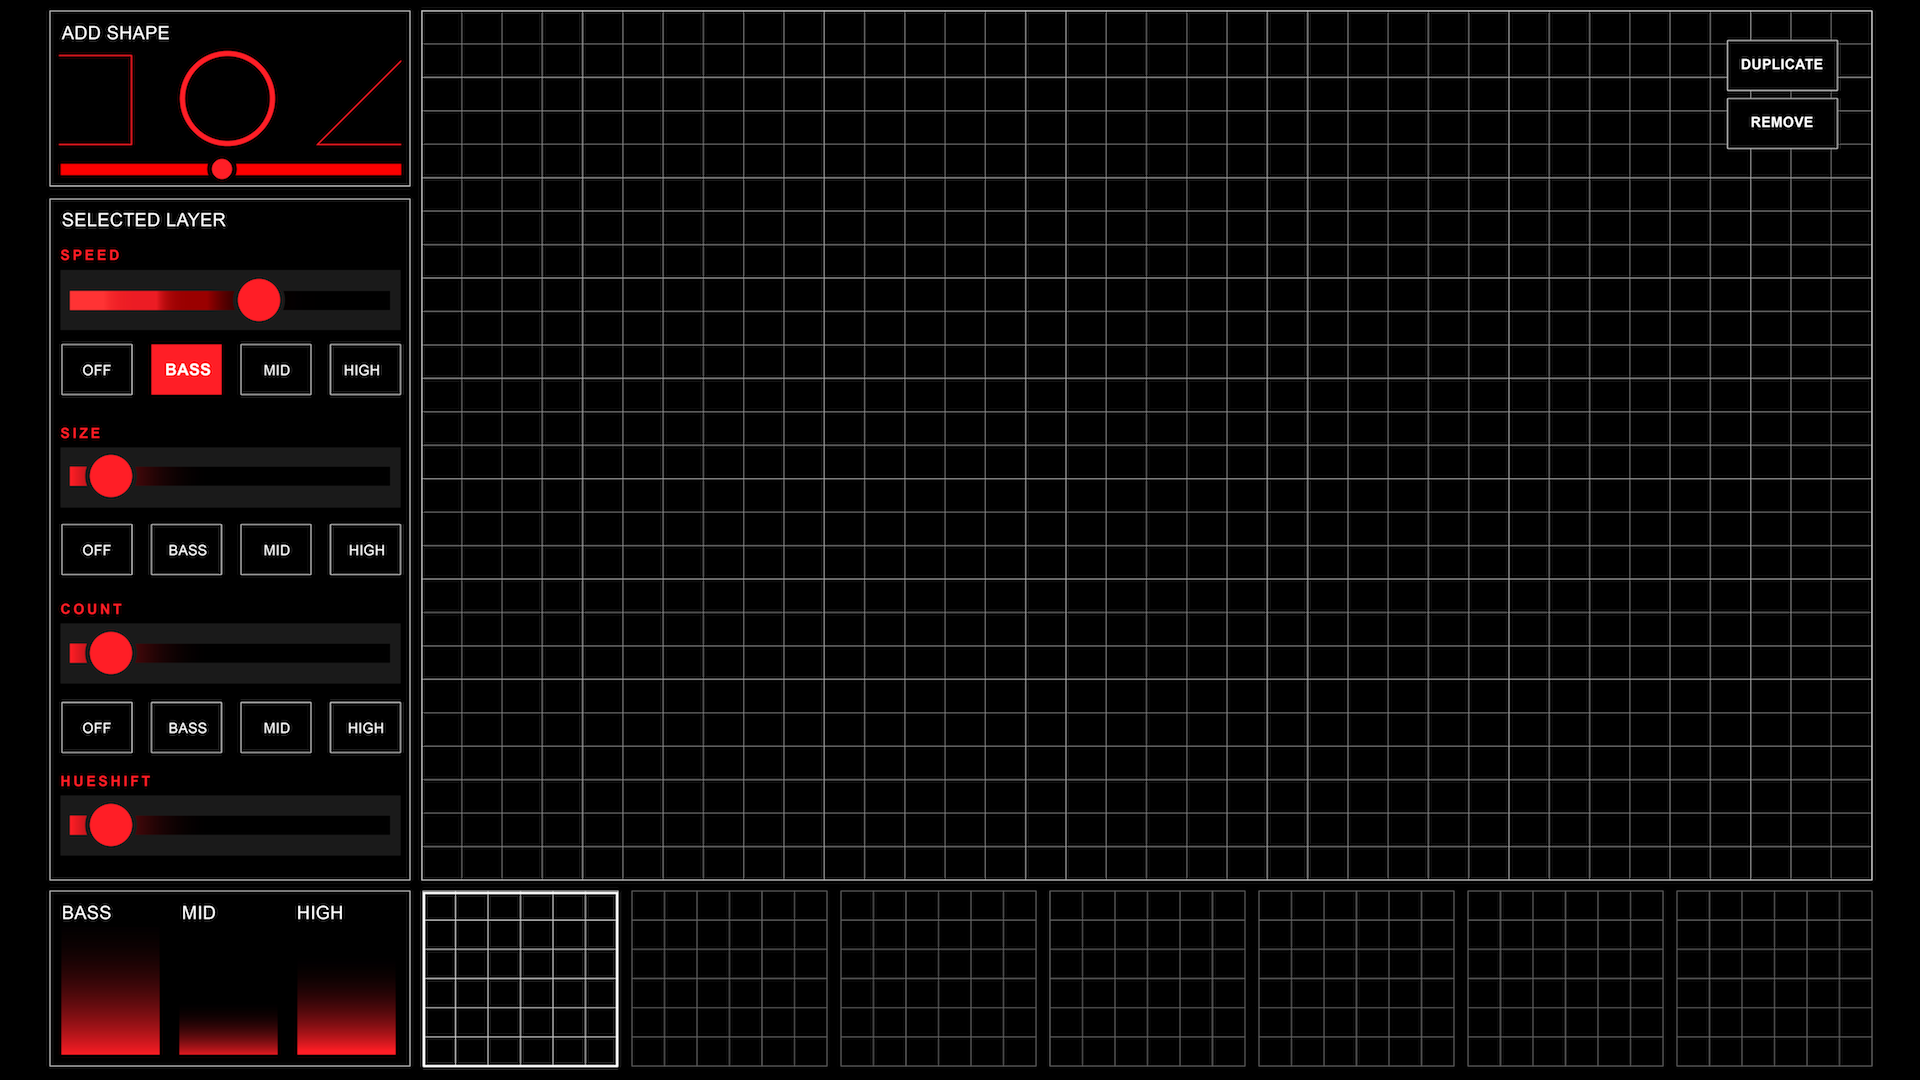
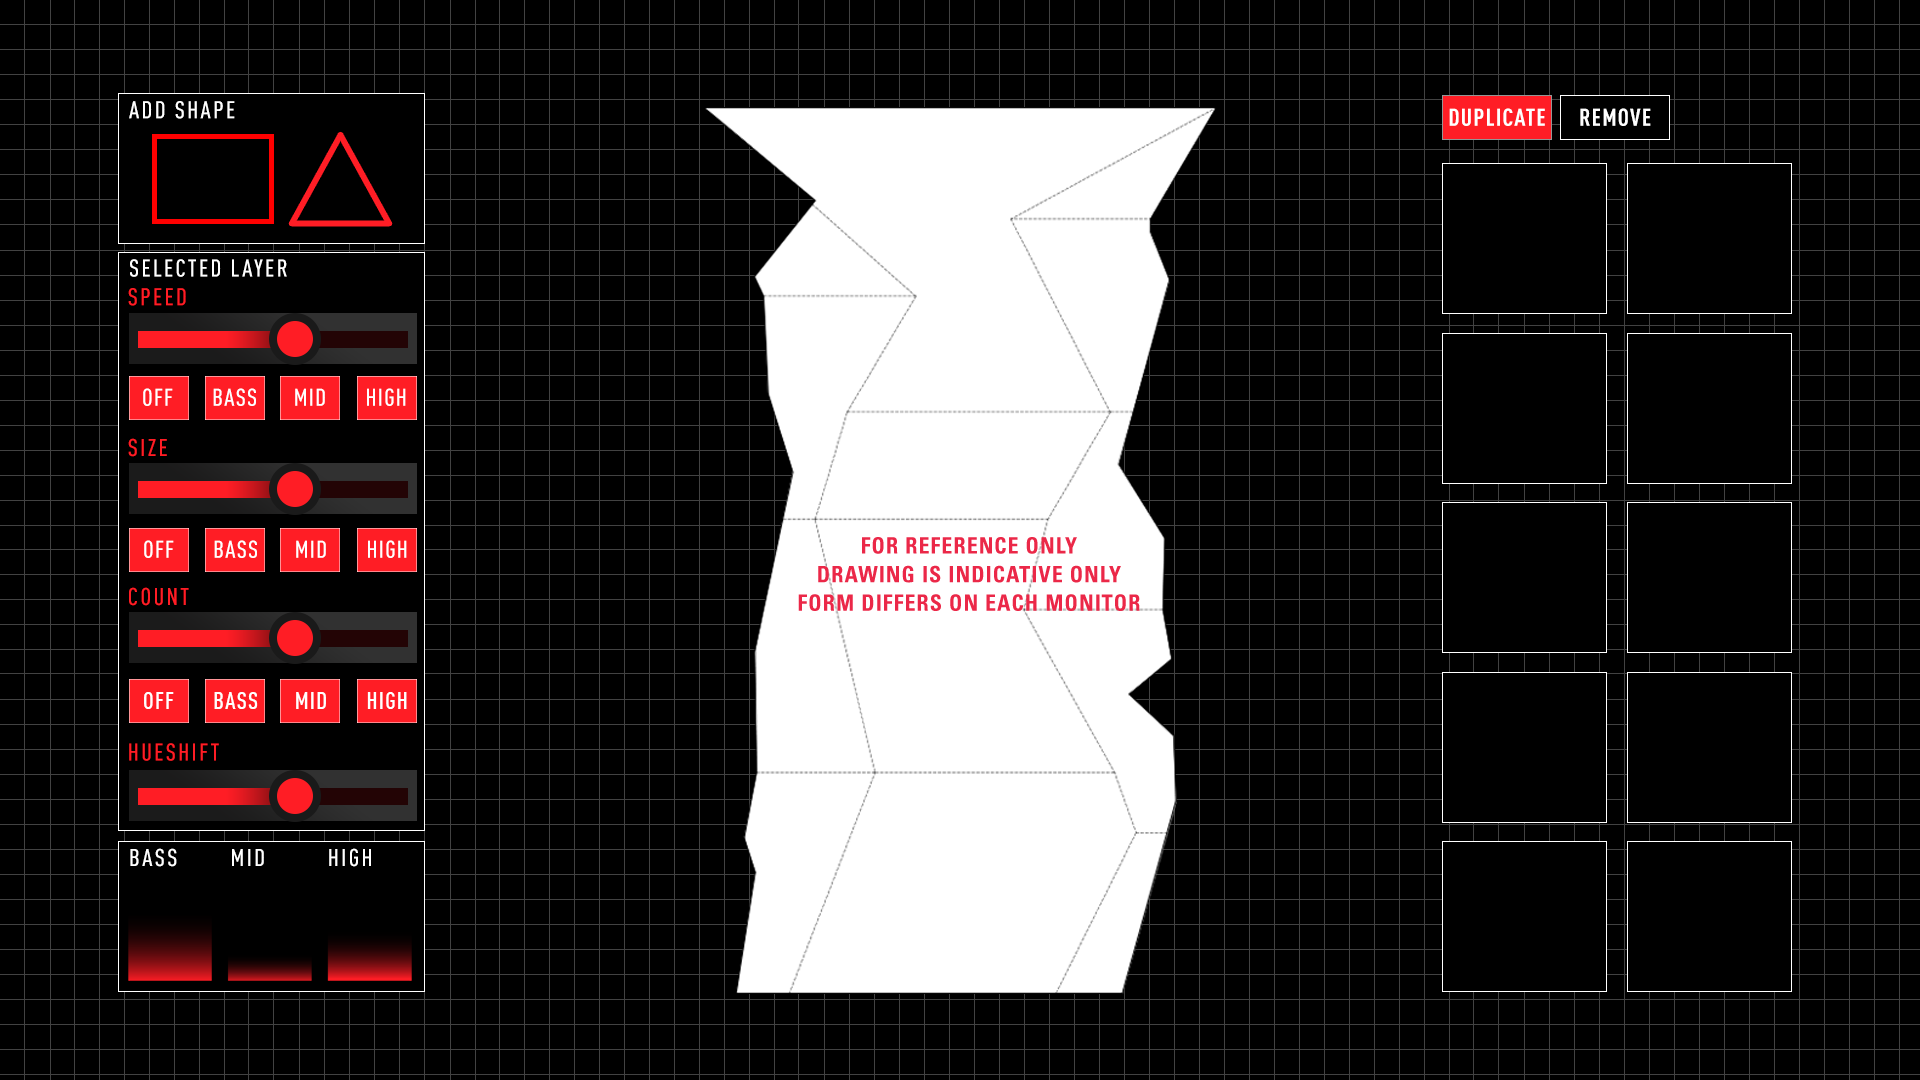
about to completely re arrange the gui layout to the new design

diff --git a/src/VisualLayer.cpp b/src/VisualLayer.cpp
@@ -22,8 +22,6 @@ void VisualLayer::init_params(){
         shader_params.push_back(ShaderParams());
     }
     
-//    shader_params[HEXAGON_GRADIENT].params = {0.5,0.2,0.0};
-//    shader_params[HEXAGON_GRADIENT].names = {"speed","circle_iter","iter"};
     
     shader_params[COLOUR_GRADIENT].params = {0.1f,0.02f,0.0f,0.0f};
     shader_params[COLOUR_GRADIENT].names = {"col_iter_x", "col_iter_y", "speed", "HUESHIFT"};
@@ -45,6 +43,9 @@ void VisualLayer::init_params(){
 
     shader_params[PATTERN_MESH_2D].params = {0.0f,0.0f,0.0f,0.0f};
     shader_params[PATTERN_MESH_2D].names = {"speed","shape_iter","grid_iter", "HUESHIFT"};
+    
+    //    shader_params[HEXAGON_GRADIENT].params = {0.5,0.2,0.0};
+    //    shader_params[HEXAGON_GRADIENT].names = {"speed","circle_iter","iter"};
 }
 
 //--------------------------------------------------------------

diff --git a/src/MaskApp.cpp b/src/MaskApp.cpp
@@ -1,0 +1,32 @@
+#include "MaskApp.hpp"
+
+void MaskApp::setup() {
+	ofBackground(0);
+	masker.setup(DO_NOT_STRETCH);
+	mask_pattern = masker.newPattern(1045, 870);
+}
+
+void MaskApp::update() {
+}
+
+void MaskApp::draw() {
+	ofBackground(0);
+   masker.update(mouseX, mouseY);
+   masker.draw();
+}
+
+void MaskApp::keyReleased(int key){
+	masker.keyReleased(key);
+}
+
+void MaskApp::mouseDragged(int x, int y, int button){
+	masker.mouseDragged();
+}
+
+void MaskApp::mousePressed(int x, int y, int button) {
+	masker.mousePressed();
+}
+
+void MaskApp::mouseReleased(int x, int y, int button) {
+	masker.mouseReleased();
+}

diff --git a/src/MaskApp.hpp b/src/MaskApp.hpp
@@ -1,0 +1,22 @@
+#pragma once
+
+#include "ofMain.h"
+
+//Masking
+#include "ofxProjectionMask.h"
+#include "ofxLayerMask.h"
+
+class MaskApp : public ofBaseApp {
+public:
+	void setup();
+	void update();
+	void draw();
+	void keyReleased(int key);
+	void mouseDragged(int x, int y, int button);
+	void mousePressed(int x, int y, int button);
+	void mouseReleased(int x, int y, int button);
+
+	// Masking
+	ofxProjectionMask masker;
+	ofxLayerMask * mask_pattern;
+};

diff --git a/src/GUI/GuiInterface.cpp b/src/GUI/GuiInterface.cpp
@@ -201,7 +201,7 @@ void GuiInterface::update_audio_reactivity(vector<VisualLayer *> &layers){
 //------------------------------------
 void GuiInterface::draw(ShaderParams &params){
     if(ofGetMousePressed()){
-        //img.draw(0,0);
+        img.draw(0,0,ofGetWidth(), ofGetHeight());
     }
 
     draw_add_shape(add_shape_rect);

diff --git a/src/GUI/GuiInterface.h b/src/GUI/GuiInterface.h
@@ -103,6 +103,7 @@ private:
     bool mouse_over_remove_toggle;
     bool mouse_over_duplicate_toggle;
     
+    ofImage img_background;
     ofImage img; // background template ref
 
     //Red Gradient Shader
